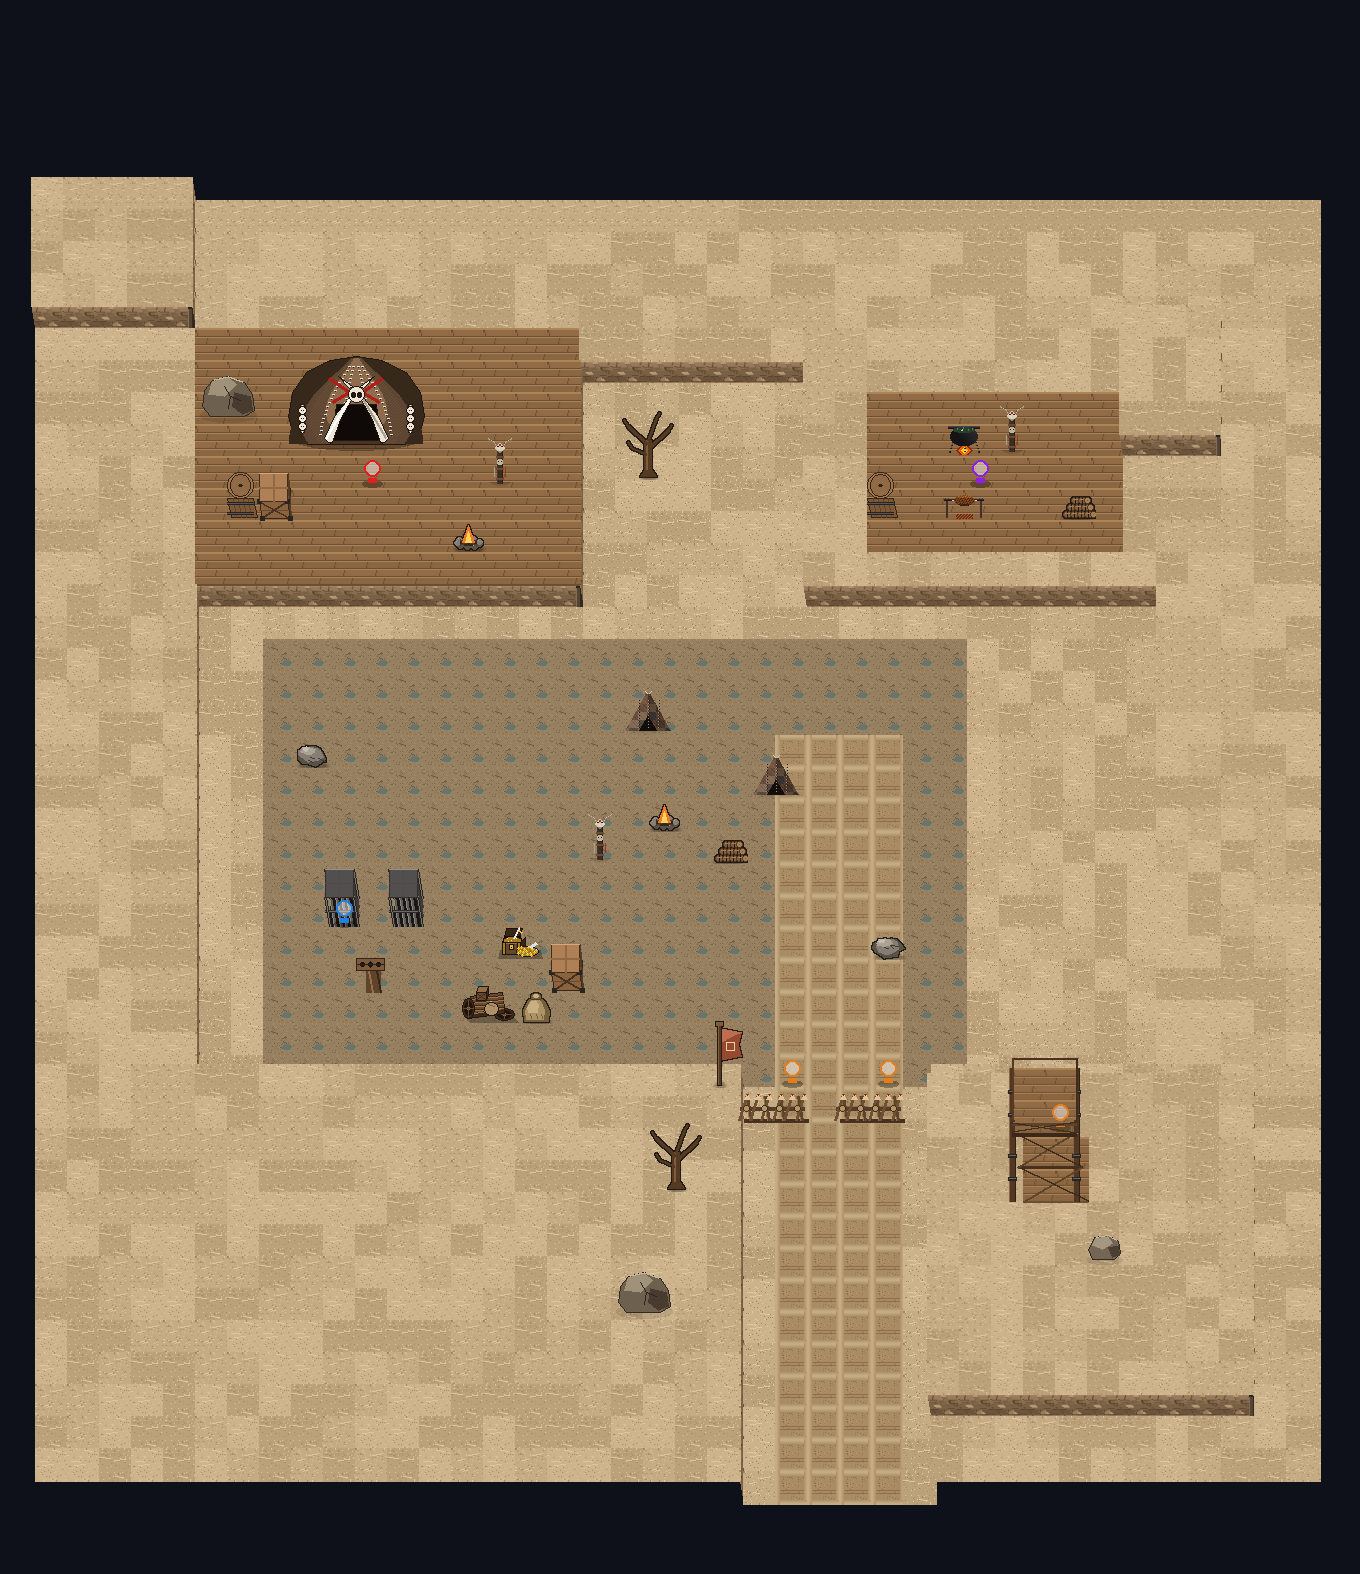
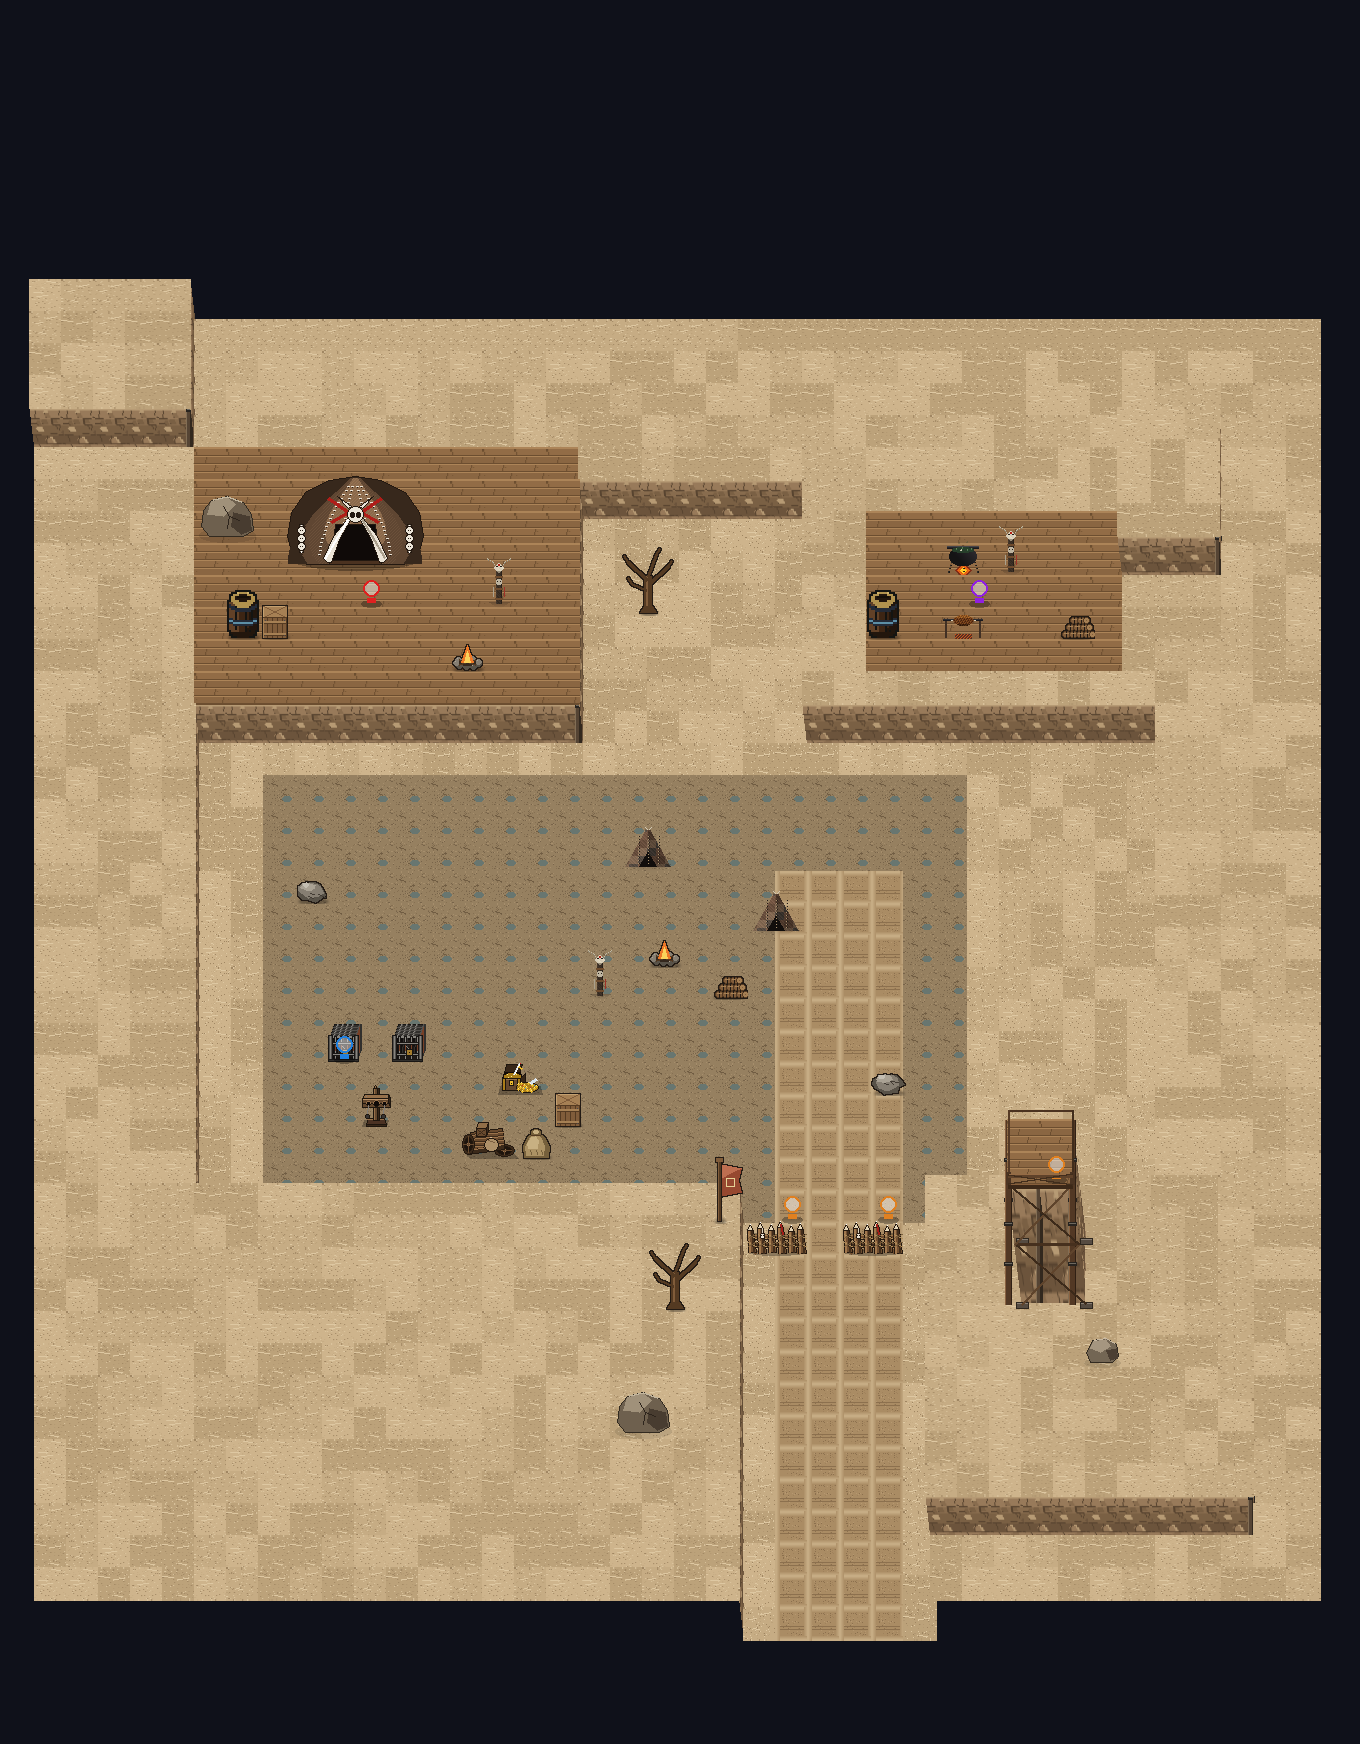
feat: switch to horizontal perspective (RISE=40.0, pitch=38.66 deg) and restore authentic 2D pixel props

diff --git a/src/render_goblin_camp.py b/src/render_goblin_camp.py
@@ -27,8 +27,8 @@ from PIL import Image, ImageDraw, ImageChops, ImageFilter, ImageFont
 CELL = 32
 ROW_H = 48
 
-RISE = 23.04          # 32 * 0.72
-SIDE_SHIFT = 3.84     # 32 * 0.12
+RISE = 40.0          # 32 * 1.25
+SIDE_SHIFT = 4.8      # 32 * 0.15
 SIDE_SPREAD = 192.0   # 32 * 6
 
 MARGIN_X = 40
@@ -262,15 +262,17 @@ def render_view(cam_x, tm, pm, actor_sprites, context, cut=None, grid_overlay=Fa
     ox_base = MARGIN_X
     oy_base = MARGIN_TOP
 
-    # 1. 建築腳印排除
-    bld_cells = {}
+    # 1. 建築腳印排除 (實體封閉建築才排除地表，高架透空建築如 timber_watchtower 保持地表完整)
+    bld_solid_cells = {}
     for b in buildings:
+        if b.get("style") == "timber_watchtower":
+            continue
         ox, oy = b["footprint"]["origin"]
         bw = b["footprint"]["cols"]
         bh = b["footprint"]["rows"]
         for r in range(oy, oy + bh):
             for c in range(ox, ox + bw):
-                bld_cells[(c, r)] = b
+                bld_solid_cells[(c, r)] = b
 
     # 2. 地形 surfaces 繪製（由北到南 row 由小到大）
     cell_to_surface = {}
@@ -280,7 +282,7 @@ def render_view(cam_x, tm, pm, actor_sprites, context, cut=None, grid_overlay=Fa
 
     for r in range(rows):
         for c in range(cols):
-            if (c, r) in bld_cells:
+            if (c, r) in bld_solid_cells:
                 continue
 
             sf = cell_to_surface.get((c, r))
@@ -292,7 +294,7 @@ def render_view(cam_x, tm, pm, actor_sprites, context, cut=None, grid_overlay=Fa
                 h = cut
 
             # 南立面 (South face)
-            if r < rows - 1 and (c, r + 1) not in bld_cells:
+            if r < rows - 1 and (c, r + 1) not in bld_solid_cells:
                 h_south = elevation_rows[r + 1][c]
                 if cut is not None and h_south > cut:
                     h_south = cut
@@ -326,7 +328,7 @@ def render_view(cam_x, tm, pm, actor_sprites, context, cut=None, grid_overlay=Fa
                         draw.line([(int(cx - 3), int(cy_top + 1)), (int(cx + 1), int(cy_top + 1))], fill=(110, 105, 95, 255))
 
             # 東西向立面 (East / West side faces)
-            if c < cols - 1 and (c + 1, r) not in bld_cells:
+            if c < cols - 1 and (c + 1, r) not in bld_solid_cells:
                 h_east = elevation_rows[r][c + 1]
                 if cut is not None and h_east > cut:
                     h_east = cut
@@ -352,7 +354,7 @@ def render_view(cam_x, tm, pm, actor_sprites, context, cut=None, grid_overlay=Fa
                         draw.point([(int(sx_top - 2), int(sy_top + 8))], fill=(35, 24, 15, 255))
                         draw.point([(int(sx_top - 2), int(sy_top + 24))], fill=(35, 24, 15, 255))
 
-            if c > 0 and (c - 1, r) not in bld_cells:
+            if c > 0 and (c - 1, r) not in bld_solid_cells:
                 h_west = elevation_rows[r][c - 1]
                 if cut is not None and h_west > cut:
                     h_west = cut
@@ -392,21 +394,21 @@ def render_view(cam_x, tm, pm, actor_sprites, context, cut=None, grid_overlay=Fa
 
         if style == "timber_watchtower":
             # 雙層高架木造哨塔渲染管線 (Stilt Watchtower with Walkable Deck)
-            # (A) 基底地板 (H=base_h)
-            floor_tile = tm.get_tile("wood_floor")
-            for r in range(oy, oy + bh):
-                for c in range(ox, ox + bw):
-                    p0 = PV(c * CELL, r * CELL, base_h, cam_x)
-                    p_e = PV((c + 1) * CELL, r * CELL, base_h, cam_x)
-                    paste_parallelogram(canvas, floor_tile, p0, (p_e[0] - p0[0], p_e[1] - p0[1]), (0, CELL), ox_base, oy_base)
-
-            # (B) 四角粗木支撐立柱 (4 Corner Posts from base_h to disp_h)
             corner_coords = [
                 (ox * CELL, oy * CELL),                       # NW
                 ((ox + bw) * CELL, oy * CELL),                 # NE
                 (ox * CELL, (oy + bh) * CELL),                 # SW
                 ((ox + bw) * CELL, (oy + bh) * CELL),          # SE
             ]
+            # (A) 基底立柱石基座 (Stone Pier Footings at base_h)
+            for wx_col, wy_col in corner_coords:
+                pt_bot = PV(wx_col, wy_col, base_h, cam_x)
+                sx = ox_base + pt_bot[0]
+                sy_bot = oy_base + pt_bot[1]
+                draw.rectangle([(int(sx - 6), int(sy_bot - 2)), (int(sx + 6), int(sy_bot + 4))],
+                               fill=(85, 75, 65, 255), outline=(45, 38, 30, 255))
+                draw.line([(int(sx - 5), int(sy_bot - 1)), (int(sx + 5), int(sy_bot - 1))],
+                          fill=(135, 125, 115, 255))
             for wx_col, wy_col in corner_coords:
                 pt_bot = PV(wx_col, wy_col, base_h, cam_x)
                 pt_top = PV(wx_col, wy_col, disp_h, cam_x)
@@ -517,24 +519,14 @@ def render_view(cam_x, tm, pm, actor_sprites, context, cut=None, grid_overlay=Fa
         fw, fh = p.get("footprint", (1, 1))
         depth = (r + fh) * CELL + c * 0.1
 
-        box_types = {
-            "crate": "crate",
-            "chieftain_crate": "crate",
-            "loot_crate": "crate",
-            "barrel": "barrel",
-            "chieftain_barrel": "barrel",
-            "iron_cage": "iron_cage",
-            "pillory_post": "pillory_post",
-            "goblin_palisade": "goblin_palisade"
-        }
-        b_type = box_types.get(p_id) or box_types.get(p.get("id"))
-        if b_type:
+        img = pm.get_prop_sprite(p_id)
+        if img:
             render_items.append({
                 "depth": depth,
                 "cell": (c, r),
                 "elevation": h,
-                "is_box": True,
-                "box_type": b_type,
+                "is_box": False,
+                "img": img,
                 "footprint": (fw, fh),
                 "id": p["id"]
             })

diff --git a/src/build_goblin_camp_spec.py b/src/build_goblin_camp_spec.py
@@ -609,8 +609,8 @@ def build_goblin_camp_spec():
             "world_origin": [1, 1]
         },
         "projection_presentation_only": {
-            "rise_ratio": 0.72,
-            "side_shift_ratio": 0.12,
+            "rise_ratio": 1.25,
+            "side_shift_ratio": 0.15,
             "side_spread_cells": 6
         },
         "elevation_rows": elevation_rows,
